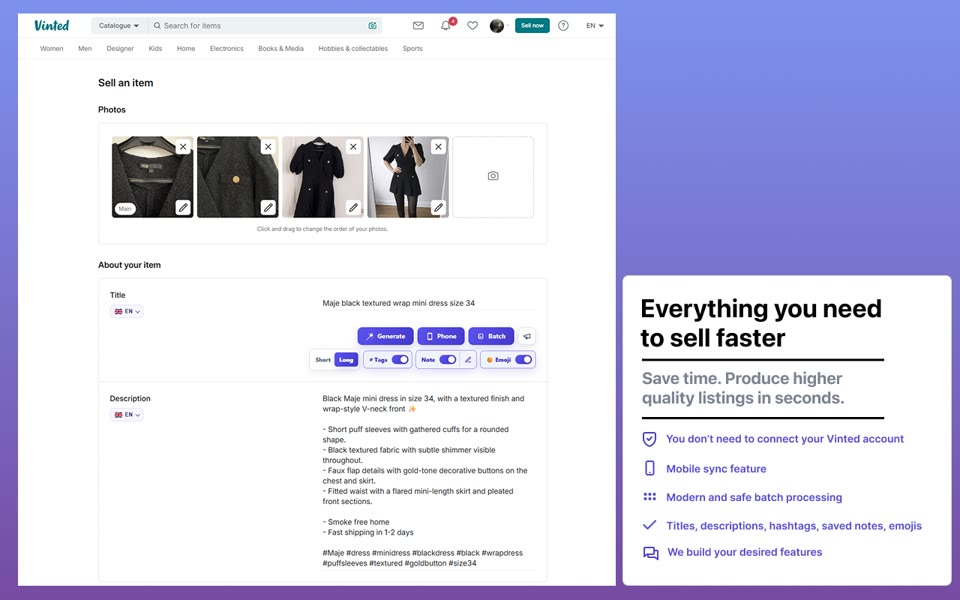
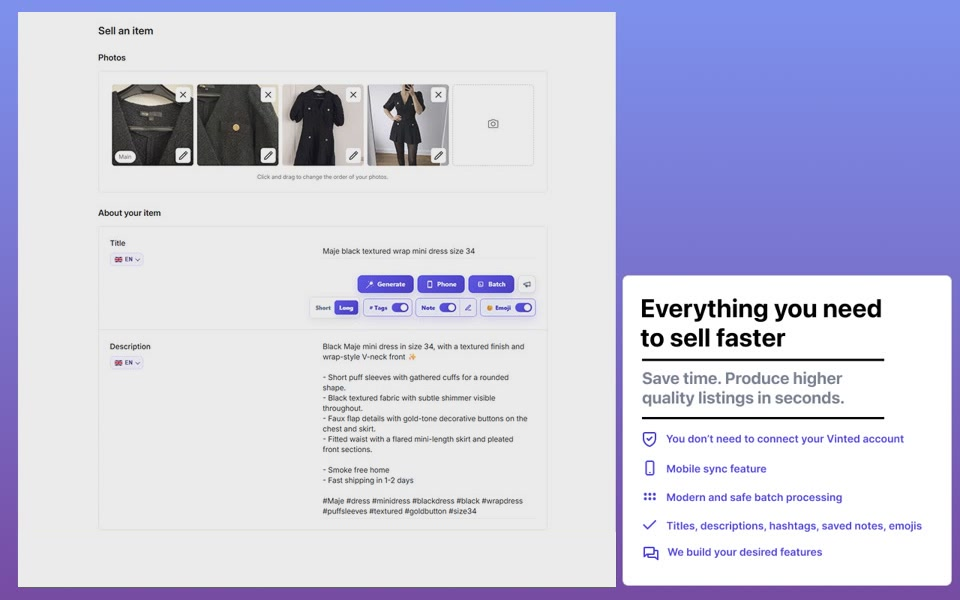
fix: remove Vinted branding from static imagery

diff --git a/docs/superpowers/plans/2026-08-07-vinted-visual-cleanup.md b/docs/superpowers/plans/2026-08-07-vinted-visual-cleanup.md
@@ -21,21 +21,22 @@
 
 **Files:**
 - Modify: `src/components/HomeLanding.astro`
+- Delete: `public/feature-2.avif`
 - Reuse: `public/updates/1-4-0/phone-batch-upload.webp`
 
 **Interfaces:**
 - Consumes: existing homepage feature-card `<img>` markup.
 - Produces: a homepage feature card using AutoLister-owned artwork with no Vinted logo.
 
-- [ ] **Step 1: Change the feature-card asset**
+- [x] **Step 1: Change the feature-card asset**
 
 Replace `/feature-2.avif` with `/updates/1-4-0/phone-batch-upload.webp`, change the alt text to `AutoLister phone batch organizer`, and use `object-cover object-top` so the useful top of the tall interface fills the 4:3 card.
 
-- [ ] **Step 2: Confirm the old asset is no longer consumed**
+- [x] **Step 2: Confirm the old asset is no longer consumed or deployed**
 
 Run: `rg -n 'feature-2\.avif' src`
 
-Expected: no output.
+Expected: no output. Delete `public/feature-2.avif` so the obsolete logo image is not publicly reachable.
 
 ### Task 2: Crop the Vinted header from static product screenshots
 
@@ -47,7 +48,7 @@ Expected: no output.
 - Consumes: the current composite screenshots.
 - Produces: same-page artwork with the embedded marketplace header removed and AutoLister UI retained.
 
-- [ ] **Step 1: Crop the header from the 1280×800 Chrome Store image**
+- [x] **Step 1: Crop the header from the 1280×800 Chrome Store image**
 
 Use FFmpeg to clear the embedded left screenshot, copy its content below the 64-pixel header upward, and preserve the surrounding 1280×800 canvas:
 
@@ -57,19 +58,19 @@ ffmpeg -y -i public/cws-screenshot-main.png -filter_complex "[0:v]split[base][so
 
 Then replace `public/cws-screenshot-main.png` with the reviewed `/tmp/cws-screenshot-main.png`.
 
-- [ ] **Step 2: Crop the duplicated blog image**
+- [x] **Step 2: Crop the duplicated blog image**
 
 ```bash
-ffmpeg -y -i public/blog-vinted-description-workflow.jpg -filter_complex "[0:v]split[base][source];[base]drawbox=x=18:y=13:w=598:h=514:color=white:t=fill[cleared];[source]crop=598:462:18:65[cropped];[cleared][cropped]overlay=18:13" -frames:v 1 -q:v 2 /tmp/blog-vinted-description-workflow.jpg
+ffmpeg -y -i public/blog-vinted-description-workflow.jpg -filter_complex "[0:v]split[base][source];[base]drawbox=x=18:y=13:w=598:h=574:color=white:t=fill[cleared];[source]crop=598:521:18:65[cropped];[cleared][cropped]overlay=18:13" -frames:v 1 -q:v 2 /tmp/blog-vinted-description-workflow.jpg
 ```
 
 Then replace `public/blog-vinted-description-workflow.jpg` with the reviewed `/tmp/blog-vinted-description-workflow.jpg`.
 
-- [ ] **Step 3: Visually inspect both images**
+- [x] **Step 3: Visually inspect both images**
 
 Confirm the Vinted logo/header is gone, AutoLister controls remain visible, and there are no seams or stretched content.
 
-- [ ] **Step 4: Verify dimensions**
+- [x] **Step 4: Verify dimensions**
 
 Run:
 
@@ -78,7 +79,7 @@ ffprobe -v error -select_streams v:0 -show_entries stream=width,height -of csv=s
 ffprobe -v error -select_streams v:0 -show_entries stream=width,height -of csv=s=x:p=0 public/blog-vinted-description-workflow.jpg
 ```
 
-Expected dimensions: `1280x800` and `960x540` respectively.
+Expected dimensions: `1280x800` and `960x600` respectively.
 
 ### Task 3: Validate and record completion
 
@@ -89,19 +90,19 @@ Expected dimensions: `1280x800` and `960x540` respectively.
 - Consumes: completed visual changes.
 - Produces: checked legal-mitigation record.
 
-- [ ] **Step 1: Build the site**
+- [x] **Step 1: Build the site**
 
 Run: `npm run build`
 
 Expected: exit code 0.
 
-- [ ] **Step 2: Update the checklist**
+- [x] **Step 2: Update the checklist**
 
 Mark the public-logo/copied-imagery item complete and note that the moving demo video remains assigned to the user.
 
-- [ ] **Step 3: Commit the implementation**
+- [x] **Step 3: Commit the implementation**
 
 ```bash
-git add src/components/HomeLanding.astro public/cws-screenshot-main.png public/blog-vinted-description-workflow.jpg docs/vinted-legal-response-checklist.md
+git add src/components/HomeLanding.astro public/feature-2.avif public/cws-screenshot-main.png public/blog-vinted-description-workflow.jpg docs/vinted-legal-response-checklist.md docs/superpowers/plans/2026-08-07-vinted-visual-cleanup.md
 git commit -m "fix: remove Vinted branding from static imagery"
 ```

diff --git a/docs/vinted-legal-response-checklist.md b/docs/vinted-legal-response-checklist.md
@@ -10,7 +10,7 @@ Response deadline in NLO letter: 11 August 2026
 - [x] Confirm `quick-vint.vercel.app` is a separate legacy Vercel project, not the `autolister.app` production project.
 - [x] Take `quick-vint.vercel.app` offline and verify `autolister.app` remains healthy. Alias detached 7 August 2026; old hostname returns 404 while the homepage, pricing, phone upload, and auth callback return 200.
   - Impact note: extension 1.3.9 migrated to `autolister.app` on 13 May 2026. Current version 1.4.3 is fully migrated; only obsolete 1.3.8-or-older installations still point at the retired hostname.
-- [ ] Remove Vinted logos and copied Vinted imagery from public marketing.
+- [x] Remove Vinted logos and copied Vinted imagery from public marketing. Static imagery cleaned 7 August 2026; the moving demo video remains assigned to the user for a motion-aware crop.
 - [ ] Remove claims including “ToS compliant”, “zero ban risk”, “account safe”, “invisible to bot detection”, and “wallet protected”.
 - [ ] Remove the DotB/Vintex comparison and unsupported competitor-risk claims.
 - [ ] Review and temporarily disable the highest-risk extraction/automation features pending legal advice.
